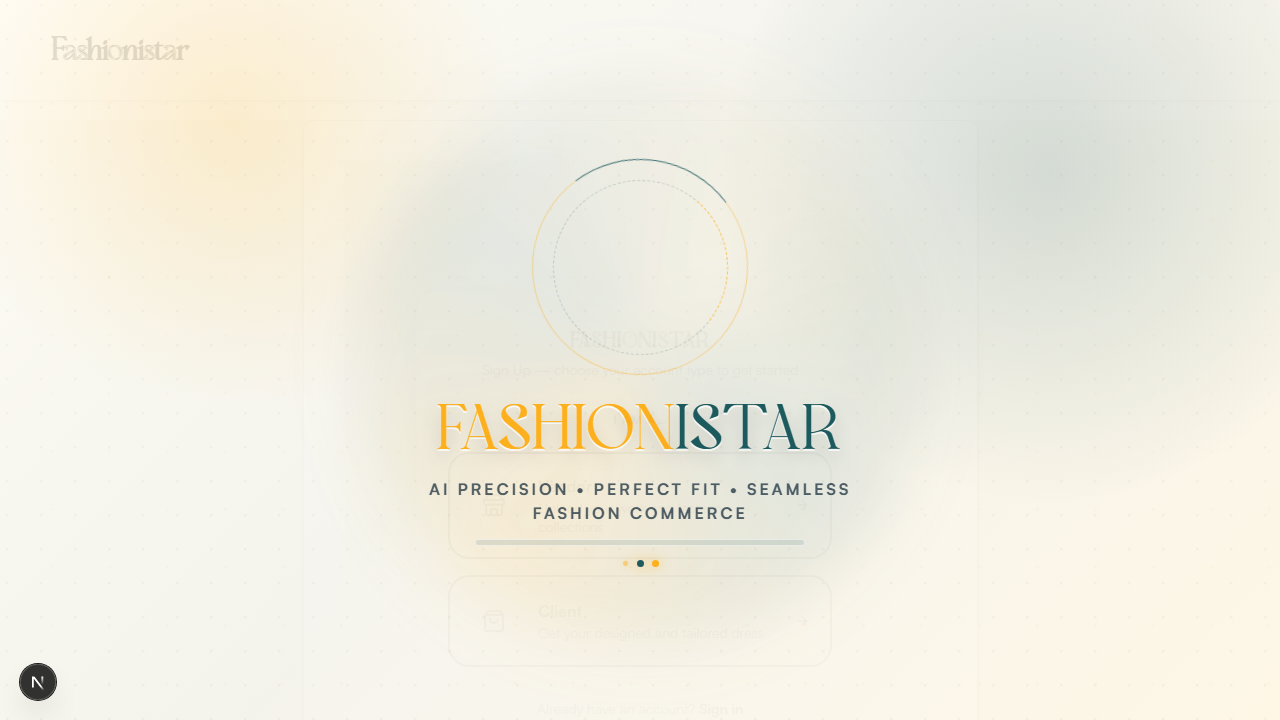
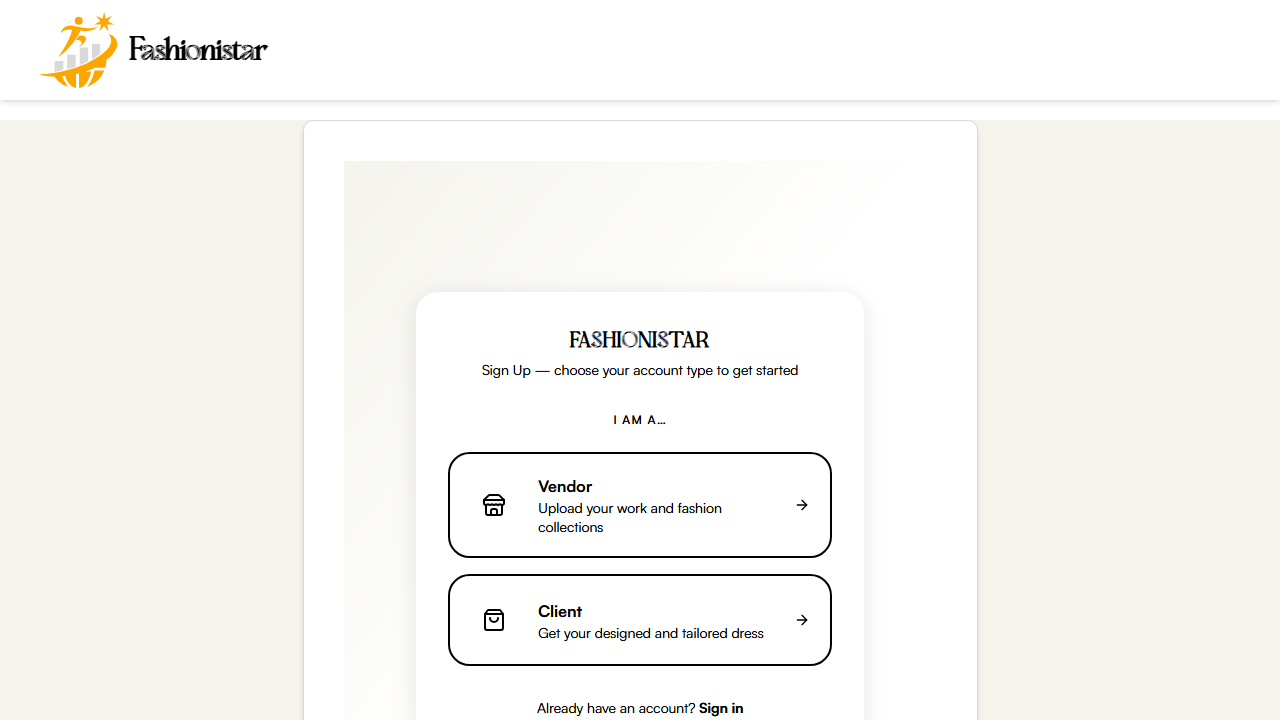
test(e2e): update vision evidence and refine collections dashboard with industrial test specs (V33)

diff --git a/tests/e2e/local-fullstack-signup-redirects.spec.ts b/tests/e2e/local-fullstack-signup-redirects.spec.ts
@@ -74,15 +74,15 @@ test.describe("FASHIONISTAR AI - Real-Vision Local Fullstack E2E Testing", () =>
     }
   });
 
-  test("1. Register Client User & Verify OTP Redirect", async ({ page }) => {
-    test.setTimeout(120_000);
-
+  test.beforeEach(async ({ page }) => {
     page.on("console", (msg) => {
       console.log(`[BROWSER CONSOLE] [${msg.type()}] ${msg.text()}`);
     });
 
     page.on("request", (req) => {
-      console.log(`[OUTGOING REQUEST] [${req.method()}] ${req.url()}`);
+      if (req.url().includes("/api/")) {
+        console.log(`[OUTGOING REQUEST] [${req.method()}] ${req.url()}`);
+      }
     });
 
     page.on("requestfailed", (req) => {
@@ -106,6 +106,10 @@ test.describe("FASHIONISTAR AI - Real-Vision Local Fullstack E2E Testing", () =>
         }
       }
     });
+  });
+
+  test("1. Register Client User & Verify OTP Redirect", async ({ page }) => {
+    test.setTimeout(120_000);
 
     console.log(`[INFO] Navigating to Client Signup with email: ${clientEmail}`);
     await page.goto(`${FRONTEND_URL}/auth/sign-up?role=client`);

diff --git a/src/features/admin-dashboard/catalog/components/CollectionsDashboard.tsx b/src/features/admin-dashboard/catalog/components/CollectionsDashboard.tsx
@@ -247,15 +247,7 @@ export function CollectionsDashboard() {
                 )}
               </div>
 
-              <div className="flex flex-col justify-end">
-                <div className="flex items-center justify-between p-3 bg-gray-50 rounded-xl border border-gray-100">
-                  <span className="font-satoshi text-sm font-medium text-black">Active Status</span>
-                  <Switch
-                    checked={activeWatch}
-                    onCheckedChange={(checked) => setValue("active", checked)}
-                  />
-                </div>
-              </div>
+              {/* Collections model has no 'active' field — toggle removed */}
             </div>
 
               <div className="space-y-1.5">

diff --git a/tests/e2e/master-vision-e2e-2026-05-28.spec.ts b/tests/e2e/master-vision-e2e-2026-05-28.spec.ts
@@ -716,9 +716,9 @@ test.describe("Stage 5 — Order & Wallet State", () => {
     // Hard assertions
     expect(platformFee).toBe(8_500);
     expect(vendorPayout).toBe(76_500);
-    expect(PRODUCT_PRICE * 0.30).toBe(25_500);
-    expect(PRODUCT_PRICE * 0.50).toBe(42_500);
-    expect(PRODUCT_PRICE * 0.70).toBe(59_500);
+    expect(Math.round(PRODUCT_PRICE * 0.30)).toBe(25_500);
+    expect(Math.round(PRODUCT_PRICE * 0.50)).toBe(42_500);
+    expect(Math.round(PRODUCT_PRICE * 0.70)).toBe(59_500);
     console.log("\n    ✅ All escrow math assertions PASS");
   });
 